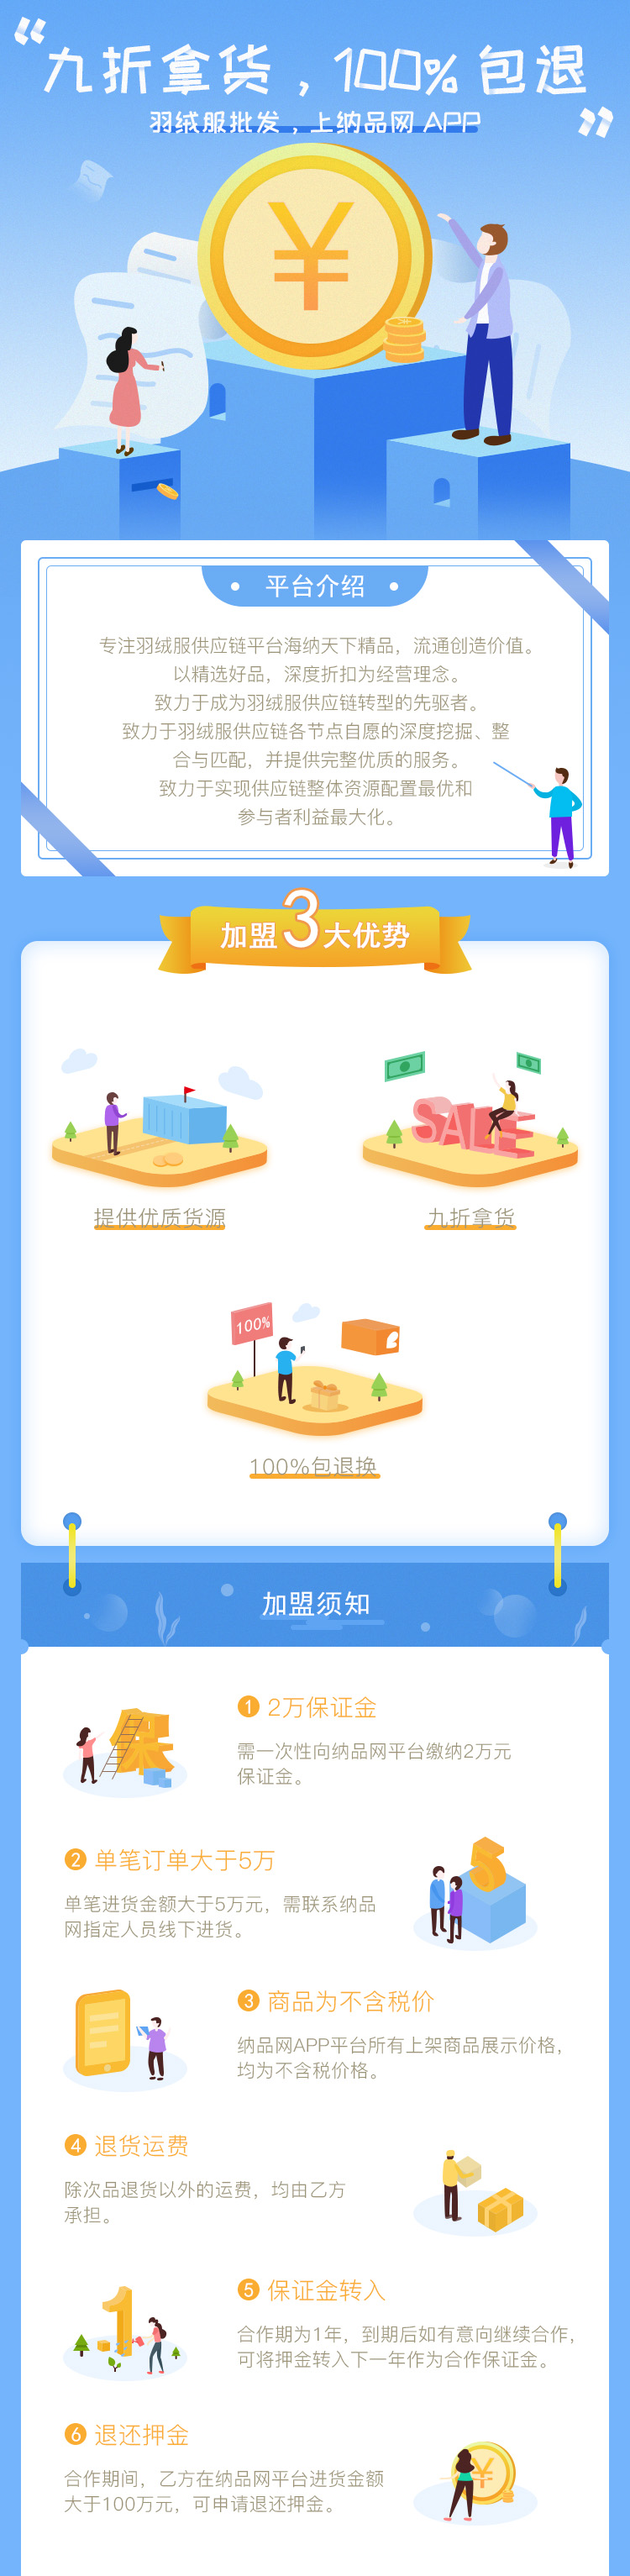
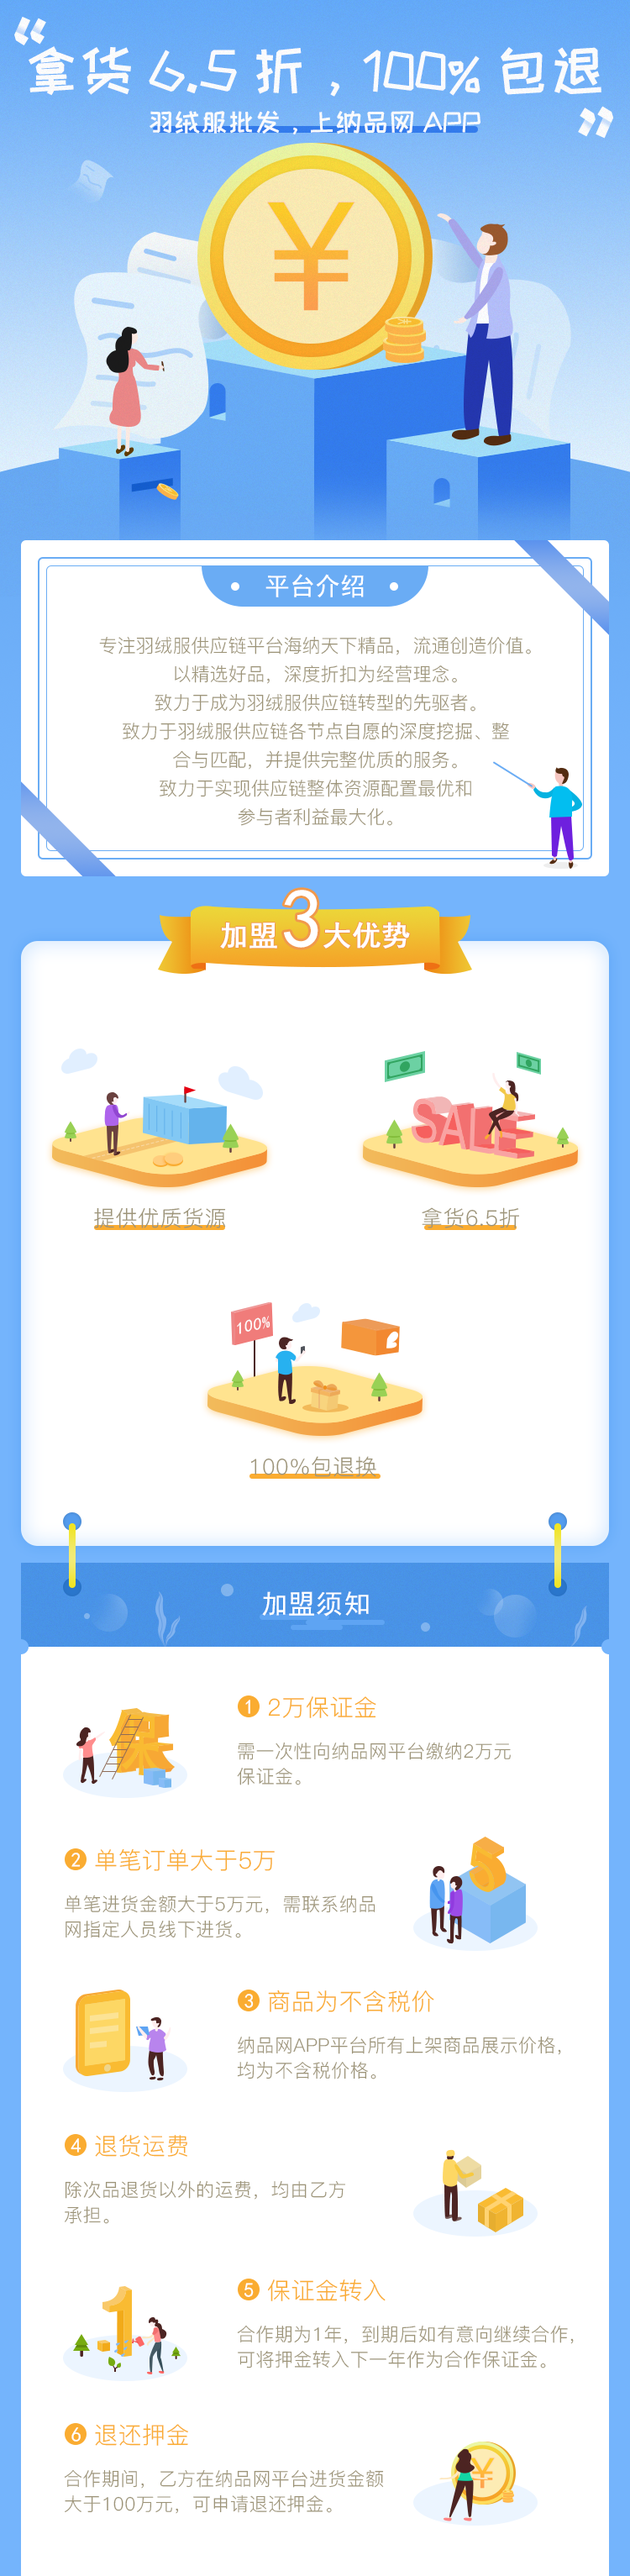
修改图片问题

Changed region(s): [[0.0613, 0.0, 0.4907, 0.062], [0.552, 0.0, 0.9507, 0.062], [0.6747, 0.4648, 0.828, 0.4958]]

diff --git a/src/pages/joinIn/contract.js b/src/pages/joinIn/contract.js
@@ -55,7 +55,7 @@ class Contract extends Component {
           3. 合作期内，乙方在纳品网平台线上线下进货金额大于 100 万元（壹佰万元整），可向纳品网平台提出申请，甲方将在30 个工作日内退回乙方所缴纳的保证金 {joinMoney} 元。<br/>
 
           4. 合作期内，甲方为乙方提供纳品网平台所供货品 100%包退换服务支持（人为原因损坏的除外）且乙方市场定价不得超出纳品网平台进货价 1.3 倍。<br/>
-          5. 乙方进货价按照平台价格九折结算。<br/>
+          5. 乙方进货价按照平台价格6.5折结算。<br/>
 
           6. 纳品网 APP 平台所有上架商品展现价格，均为不含税价。如乙方需要开发票，需额外承担 8%税点。<br/>
           7. 除次品退货以外的运费，均由乙方承担。<br/>
